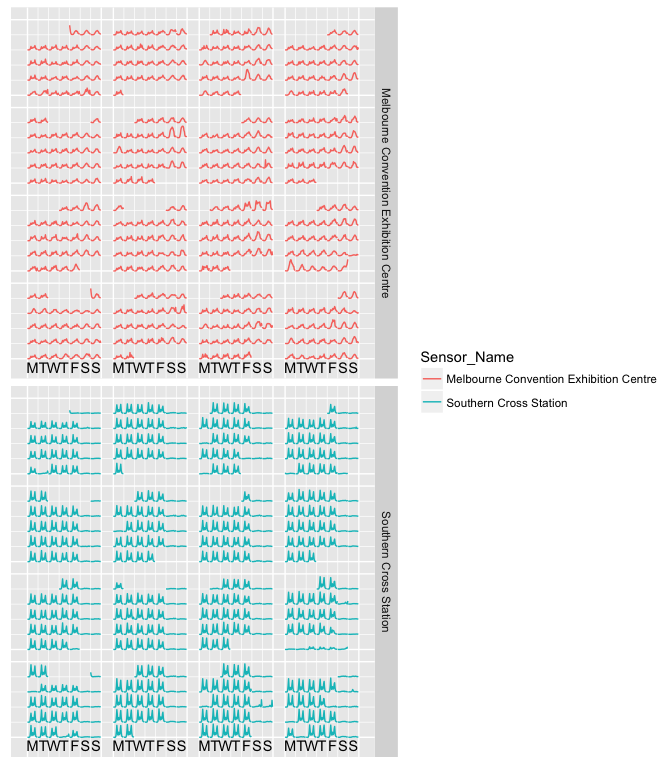
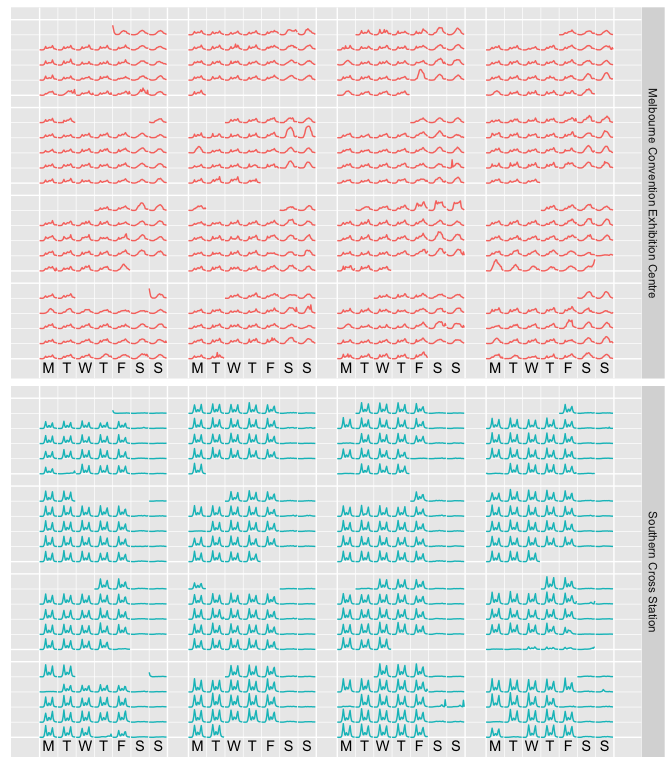
rm legend from plot

diff --git a/README.md b/README.md
@@ -66,7 +66,8 @@ calendar_df
 p <- calendar_df %>%
   ggplot(aes(x = .x, y = .y, group = .group_id, colour = Sensor_Name)) +
   geom_line() +
-  facet_grid(Sensor_Name ~ .)
+  facet_grid(Sensor_Name ~ .) +
+  theme(legend.position = "none")
 prettify(p, label = "text")
 ```
 
